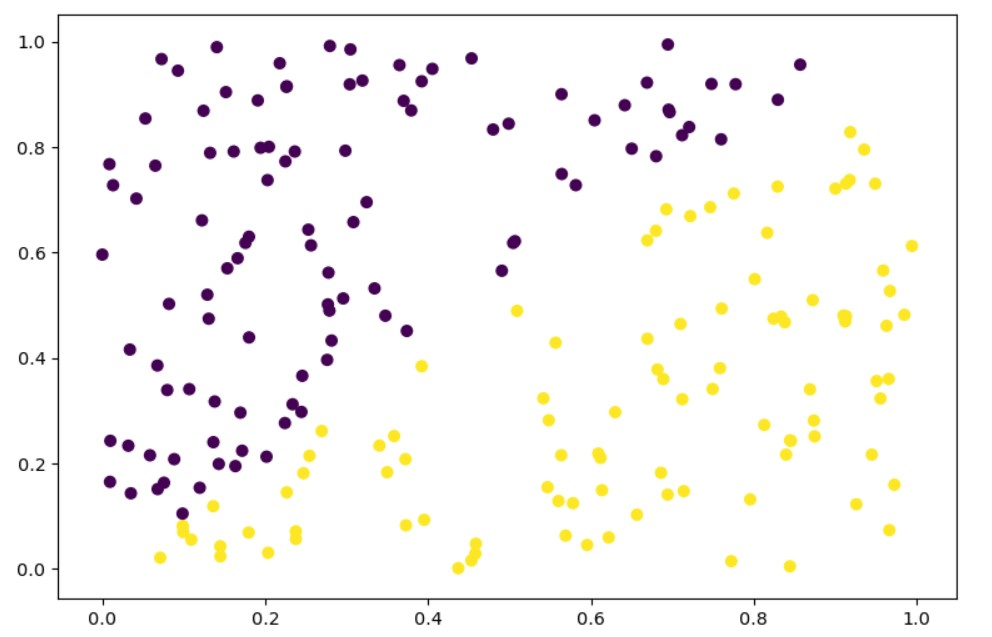
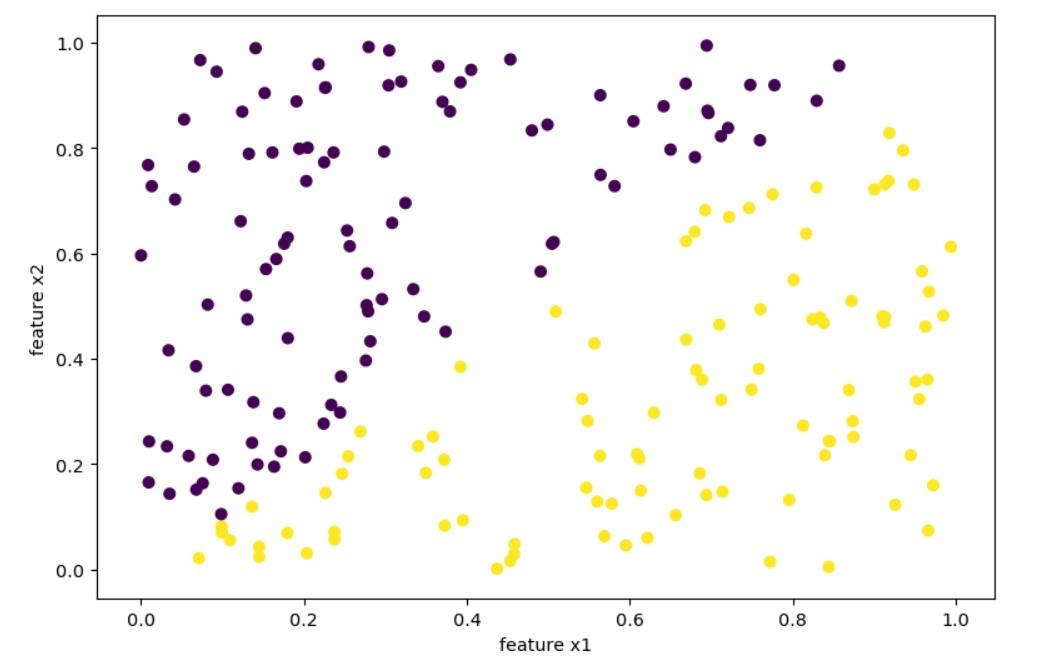
5

diff --git a/_posts/2020-04-25-machine-learning_examples.md b/_posts/2020-04-25-machine-learning_examples.md
@@ -1,0 +1,289 @@
+---
+id: 12971
+title: Machine learning examples
+date: 2020-04-25
+author: taimane
+layout: post
+permalink: /machine-learning/examples
+published: true
+image: 
+categories: 
+   - machine-learning
+tags:
+   - random forest
+   - decision tree
+   - linear regression
+   - logistic regression
+---
+<script type="text/x-mathjax-config">
+    MathJax.Hub.Config({
+      tex2jax: {
+        skipTags: ['script', 'noscript', 'style', 'textarea', 'pre'],
+        inlineMath: [['$','$']]
+      }
+    });
+</script>
+<script src="https://cdn.mathjax.org/mathjax/latest/MathJax.js?config=TeX-AMS-MML_HTMLorMML" type="text/javascript"></script>
+
+## Example values
+
+Let's consider the following example:
+
+```python
+import numpy as np
+from matplotlib import pyplot as plt
+n=200 #  200 points
+np.random.seed(13)
+x1 = np.random.rand(n)
+x2 = np.random.rand(n)
+y = np.where(x1>x2, 1, 0) # value zero or one
+
+fig, ax = plt.subplots(figsize = (9,6), dpi=103 )
+ax.scatter(x1,x2, c=y)
+plt.show()
+```
+
+_Output:_
+
+![dots](/wp-content/uploads/2020/04/dots.jpg)
+
+We have 200 points ( **n=200** ) and we classified as 0 or 1 points based on features $x1$ and $x2$.
+
+
+${\displaystyle y=\left\{{\begin{array}{rl}1,&{\text{if }}x_1 > x_2\\0,&{\text{else }}\end{array}}\right.}$
+
+
+
+We will try different techniques to create a prediction model that we fit with our 200 samples.
+
+
+## Decision Tree
+
+Let's use sklearn **DecisionTreeRegressor** first.
+
+```python
+import numpy as np
+from sklearn.tree import DecisionTreeRegressor
+assert x1.shape==x2.shape
+X = np.c_[x1,x2]
+dtr = DecisionTreeRegressor(random_state=13, max_depth=10, criterion='mse', splitter='best')
+dtr.fit(X, y)
+
+xx = np.linspace(0, 1.0, num=50)
+yy = np.linspace(0, 1.0, num=50)
+xx,yy = np.meshgrid(xx, yy)
+
+fig, ax = plt.subplots(figsize = (9,6), dpi=103 )
+
+Z = dtr.predict(np.c_[xx.ravel(), yy.ravel()])
+Z = Z.reshape(xx.shape)
+ax.contourf(xx,yy, Z)
+# ax.scatter(xx,yy,c=Z)
+```
+
+![decision tree regressor](/wp-content/uploads/2020/04/decision-tree-reg.jpg)
+
+Based on a fitted **dtr** we may predict:
+
+```python
+dtr.predict(np.c_[0.9, 0.1]), dtr.predict(np.c_[0.1, 0.9])
+# (array([1.]), array([0.]))
+```
+
+Now let's use the **DecisionTreeClassifier**.
+
+```python 
+import numpy as np
+from sklearn.tree import DecisionTreeClassifier
+assert x1.shape==x2.shape
+X = np.c_[x1,x2]
+dtc = DecisionTreeClassifier(random_state=13, max_depth=2, criterion='entropy', splitter='best')
+dtc.fit(X, y)
+
+xx = np.linspace(0, 1.0, num=50)
+yy = np.linspace(0, 1.0, num=50)
+xx,yy = np.meshgrid(xx, yy)
+
+fig, ax = plt.subplots(figsize = (9,6), dpi=103 )
+
+Z = dtc.predict(np.c_[xx.ravel(), yy.ravel()])
+Z = Z.reshape(xx.shape)
+ax.contourf(xx,yy, Z)
+# ax.scatter(xx,yy,c=Z)
+```
+
+
+
+*Output for **max_depth=2**:*
+
+![decision tree regressor](/wp-content/uploads/2020/04/decision-tree-class2.jpg)
+
+
+*Output for **max_depth=3**:*
+
+![decision tree regressor](/wp-content/uploads/2020/04/decision-tree-class3.jpg)
+
+*Output for **max_depth=4**:*
+
+![decision tree regressor](/wp-content/uploads/2020/04/decision-tree-class4.jpg)
+
+
+You may set different values, and find the prediction will alter. One of the most important values is n=200. If we have set more points, we will get better prediction.
+
+
+## Random Forest
+
+RandomForest is a combination (sequence) of multiple decision trees.
+
+
+### RandomForestClassifier
+
+We will check in here the **RandomForestClassifier** first.
+
+```python
+import numpy as np
+from sklearn.ensemble import RandomForestClassifier
+
+assert x1.shape==x2.shape
+X = np.c_[x1,x2]
+
+rfc = RandomForestClassifier(max_depth=2, random_state=0, n_estimators=20)
+rfc.fit(X, y)
+xx = np.linspace(0, 1.0, num=50)
+yy = np.linspace(0, 1.0, num=50)
+xx,yy = np.meshgrid(xx, yy)
+
+fig, ax = plt.subplots(figsize = (9,6), dpi=103 )
+ax.title.set_text('RandomForestClassifier: max_depth=2')
+Z = rfc.predict(np.c_[xx.ravel(), yy.ravel()])
+Z = Z.reshape(xx.shape)
+ax.contourf(xx, yy, Z)
+#ax.scatter(xx,yy, c=Z)
+```
+
+_Output:_
+
+![random forest classifier](/wp-content/uploads/2020/04/random-forest-class2.jpg)
+
+In here we may compare, we have the **max_depth=2**, but we also have **n_estimators=20** which means 20 decision trees.
+
+These 20 trees will impact the improvement in the results. However, you may check that the number of test samples **n=200** will provide better prediction results if you increase it.
+
+
+Here is how it looks for **max_depth=3**: 
+
+![random forest classifier](/wp-content/uploads/2020/04/random-forest-class3.jpg)
+
+
+### RandomForestRegressor
+
+Let's in here create little experiment with **RandomForestRegressor**
+
+Regressor is used to predict real valued outputs which vary and don't require outputs predicted to be in a fixed set (here 0 and 1). For example, when wanting to predict the future income of restaurants, we really don't know all the possible outputs.
+
+![random forest regressor](/wp-content/uploads/2020/04/random-forest-reg3.jpg)
+
+The output is as expected since now we don't predict just the two colors, instead regressors will provide values in between based calculated based on the as a weighted sum from multiple decision trees.
+
+
+## Logistic Regression (classification)
+
+```python
+import numpy as np
+from sklearn.linear_model import LogisticRegression
+
+
+assert x1.shape==x2.shape
+X = np.c_[x1,x2]
+lr = LogisticRegression(random_state=13, solver='lbfgs').fit(X, y)
+lr.fit(X, y)
+xx = np.linspace(0, 1.0, num=50)
+yy = np.linspace(0, 1.0, num=50)
+xx,yy = np.meshgrid(xx, yy)
+
+fig, ax = plt.subplots(figsize = (9,6), dpi=103 )
+ax.title.set_text('Logistic Regression')
+Z = lr.predict(np.c_[xx.ravel(), yy.ravel()])
+Z = Z.reshape(xx.shape)
+ax.contourf(xx, yy, Z)
+#ax.scatter(xx,yy, c=Z)
+```
+
+_Output:_
+
+![logistic regression](/wp-content/uploads/2020/04/logistic-regression.jpg)
+
+> Note even though it is called logistic regression this is a classification model.
+
+## Linear Regression
+
+Ordinary least squares Linear Regression check.
+
+```python
+import numpy as np
+from sklearn.linear_model import LinearRegression
+assert x1.shape==x2.shape
+X = np.c_[x1,x2]
+ln = LinearRegression(normalize=True).fit(X, y)
+ln.fit(X, y)
+
+xx = np.linspace(0, 1.0, num=50)
+yy = np.linspace(0, 1.0, num=50)
+xx,yy = np.meshgrid(xx, yy)
+
+fig, ax = plt.subplots(figsize = (9,6), dpi=103 )
+ax.title.set_text('Linear Regression')
+Z = ln.predict(np.c_[xx.ravel(), yy.ravel()])
+Z = Z.reshape(xx.shape)
+ax.contourf(xx, yy, Z)
+ax.scatter(xx,yy, c=Z)
+ln.predict(np.c_[0.9,0.1]), ln.predict(np.c_[0.1,0.9]), ln.coef_
+```
+
+Output:
+
+![linear regression](/wp-content/uploads/2020/04/linear-regression.jpg)
+
+```
+(array([1.29900126]), array([-0.29463407]), array([ 1.02103199, -0.97101218]))
+```
+
+## KNeighborsClassifier
+
+```python
+import numpy as np
+from sklearn.neighbors import KNeighborsClassifier
+knn = KNeighborsClassifier(n_neighbors=3)
+knn.fit(X, y)
+
+xx = np.linspace(0, 1.0, num=50)
+yy = np.linspace(0, 1.0, num=50)
+xx,yy = np.meshgrid(xx, yy)
+
+fig, ax = plt.subplots(figsize = (9,6), dpi=103 )
+ax.title.set_text('KNN Classifier')
+Z = knn.predict(np.c_[xx.ravel(), yy.ravel()])
+Z = Z.reshape(xx.shape)
+ax.contourf(xx, yy, Z)
+#ax.scatter(xx,yy, c=Z)
+```
+
+![knn](/wp-content/uploads/2020/04/knn.jpg)
+
+
+## Conclusion
+
+In here we provided an overview for the simple classification problem with two features $x_1,x_2$. 
+
+${\displaystyle y=\left\{{\begin{array}{rl}1,&{\text{if }}x_1 > x_2\\0,&{\text{else }}\end{array}}\right.}$
+
+We found out that **LogisticRegression** model is the best fit for this problem.
+
+The LinearRegression won't help us in here, but we found interesting intuitions.
+
+There are many different problems and many other prediction models. You may also check [KMeans clustering](https://scikit-learn.org/stable/modules/generated/sklearn.cluster.KMeans.html){:rel="nofollow"} on this problem.
+
+
+
+
+
